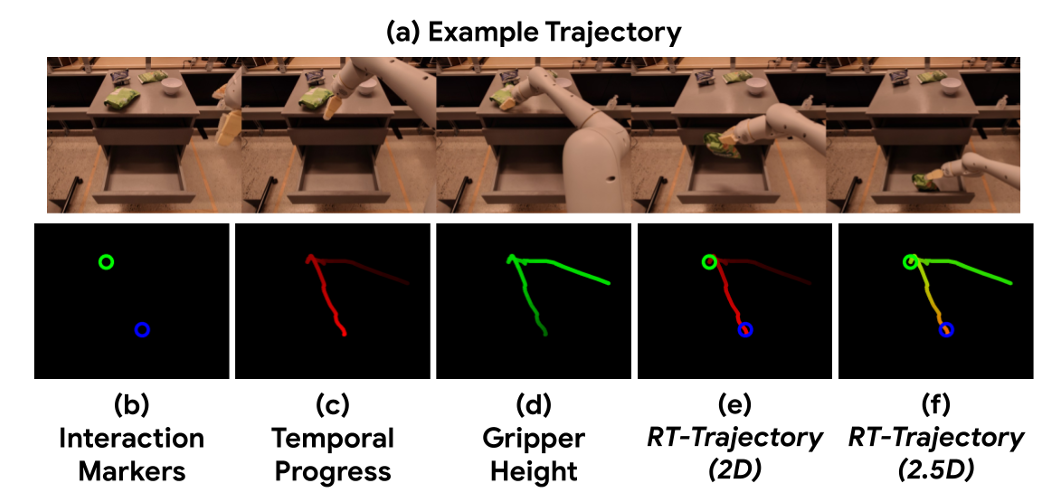
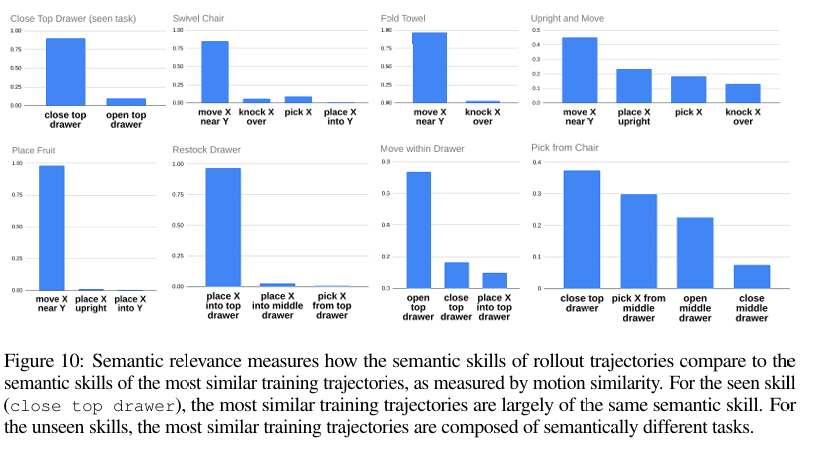
posts

diff --git a/_posts/2026-09-14-rt-trajectory.md b/_posts/2026-09-14-rt-trajectory.md
@@ -6,7 +6,7 @@ tags:
   - policy-learning
 title: >-
   [논문 리뷰] RT-Trajectory: Robotic Task Generalization via Hindsight Trajectory
-  Sketches
+  Sketches (2024)
 date: '2026-09-14'
 math: true
 ---
@@ -64,7 +64,7 @@ $$
 이때 ^p\_t는 원하는 그리퍼 값, p\_t는 현재 실제 세계의 그리퍼 값입니다.
 
 $$
-(\delta_t&lt;0 \text{ OR } \hat{p}_t&lt;\epsilon) \text{ AND } (\delta_{t+1}&gt;0 \text{ AND } \hat{p}_{t+1}&gt;\epsilon)
+(\delta_t &lt;0 \text{ OR } \hat{p}&lt;\epsilon) \text{ AND } (\delta_{t+1}&gt;0 \text{ AND } \hat{p}_{t+1}&gt;\epsilon)
 $$
 
 해당 식의 첫번째 항은 명령보다 더 벌어졌거나 OR 애초에 닫으라는 명령이 없는 상황. 두번째 항은 명령보다 덜 닫혔고 AND 닫으라는 명령이 내려진 상태. 이 두가지의 t시점을 알면 t시점이 닫으려고 명령하는 시점임을 확인할 수 있고, 이걸 그대로 반대로 역전시키면 열라고 명령하는 시점 또한 구할 수 있습니다.
@@ -106,3 +106,11 @@ baseline은 RT-1, RT-2, RT-1-Goal (image goal) 이었습니다.
 ![](/assets/img/posts/2026-09-14-rt-trajectory/image-5.png)
 
 Task 성공률은 다음과 같습니다. RT-Traj (2.5D)가 제일 좋은 성공률을 보였습니다.
+
+![](/assets/img/posts/2026-09-14-rt-trajectory/image.png)
+
+다음은 trajectory의 특성상 어떤 방식으로든 로봇의 경로를 그리기만 하면 policy가 될 수 있는 특성을 통해, 사람의 손 동작을 기준으로 수행하거나 LLM의 동작 코딩 기능을 통해 trajectory를 만들었을때의 policy 성공률을 나타낸 것 입니다. 사람의 동작을 모방할때는 RT-Trajectory가 좋았으나 LLM 프롬프팅에서는 크게 다르지 않은 결과를 보였습니다.
+
+![](/assets/img/posts/2026-09-14-rt-trajectory/image-1.png)
+
+다음은 정성적 분석으로, policy의 generalization이 잘 됐는지 확인하기 위해 unseen task에 대한 policy trajectory가 training dataset의 어떤 trajectory와 유사한지를 분석한 결과입니다. 이 결과를 통해 저자는 기존의 학습 데이터들을 잘 조합해서 policy가 generalization 되었음을 지지한다고 주장하고 있습니다.

diff --git a/_posts/2026-07-21-pi06-vla.md b/_posts/2026-07-21-pi06-vla.md
@@ -4,7 +4,7 @@ categories:
   - Robotics
 tags:
   - vla
-title: '[논문 리뷰] Pi0.6*: a VLA That Learns From Experience'
+title: '[논문 리뷰] Pi0.6*: a VLA That Learns From Experience (2025)'
 math: true
 date: '2026-07-21'
 ---

diff --git a/_posts/2026-07-27-xdiff-vla.md b/_posts/2026-07-27-xdiff-vla.md
@@ -6,7 +6,7 @@ tags:
   - vla
 title: >-
   [논문 리뷰] X-DiffVLA: X-Embodied Diffusion Action Heads for
-  Vision-Language-Action Models
+  Vision-Language-Action Models (2026)
 date: '2026-07-27'
 ---
 
